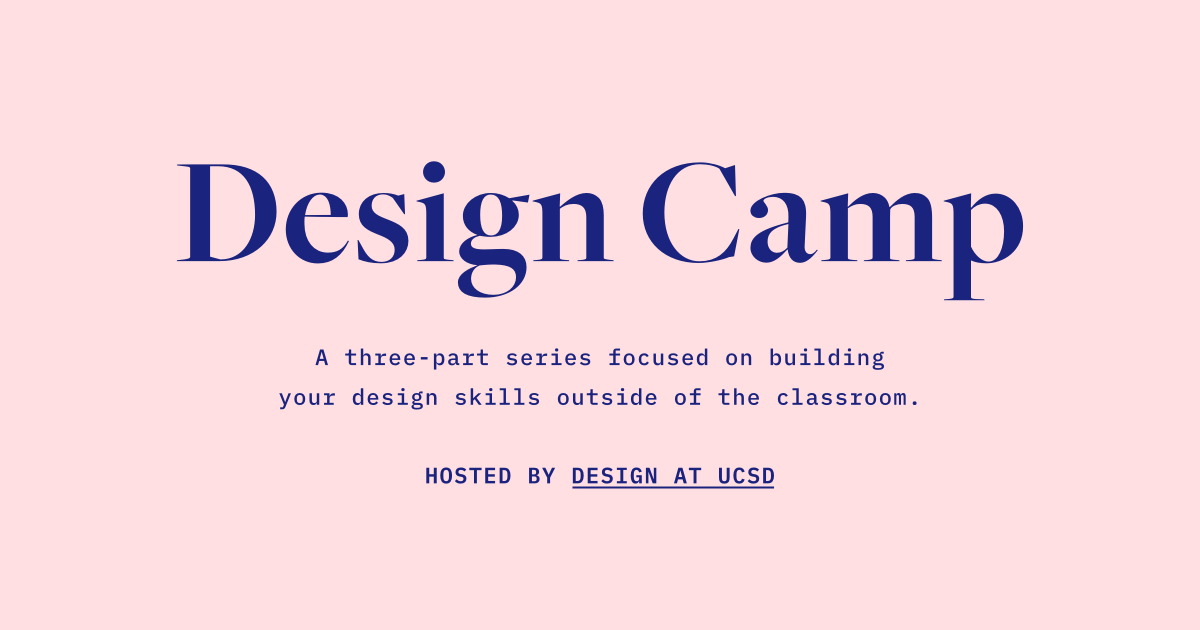
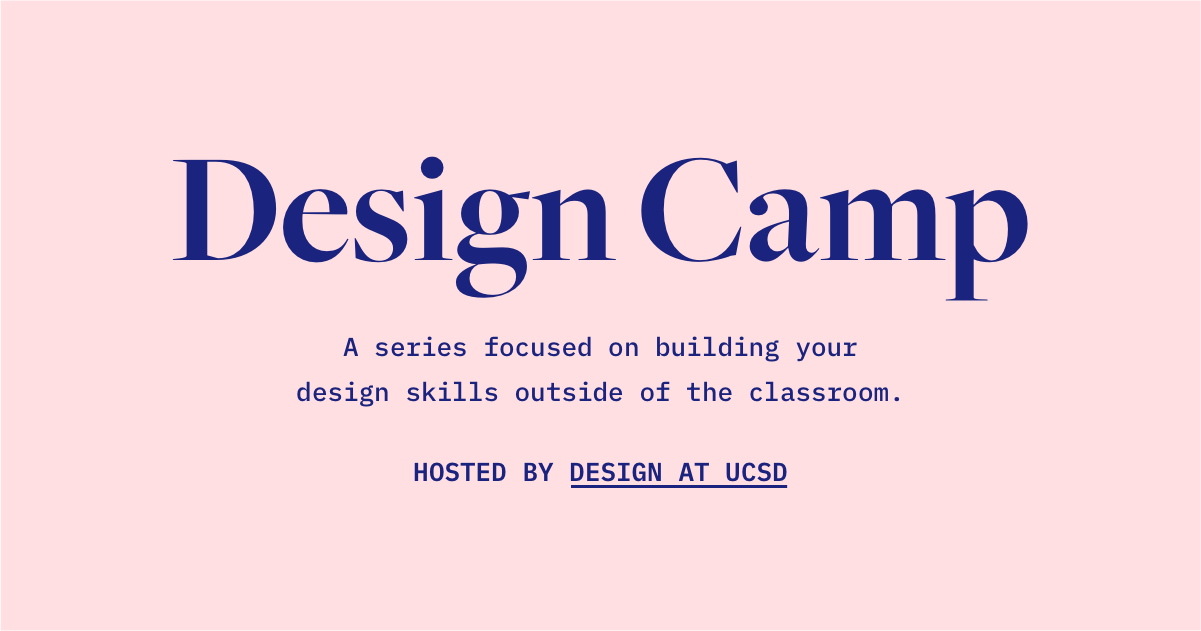
Update preview and description

diff --git a/index.html b/index.html
@@ -6,7 +6,7 @@
   <meta charset="utf-8">
   <meta name="viewport" content="width=device-width, initial-scale=1, shrink-to-fit=no">
   <meta name="format-detection" content="telephone=no">
-  <meta name="description" content="A three-part series focused on building your design skills outside of the classroom." />
+  <meta name="description" content="A series focused on building your design skills outside of the classroom." />
   <meta name="keywords" content="design skills, portfolio, visual design">
 
   <!-- Facebook -->
@@ -14,7 +14,7 @@
   <meta property="og:type" content="website">
   <meta property="og:image" content="https://camp.designatucsd.org/assets/images/preview.png">
   <meta property="og:url" content="https://camp.designatucsd.org">
-  <meta property="og:description" content="A three-part series focused on building your design skills outside of the classroom.">
+  <meta property="og:description" content="A series focused on building your design skills outside of the classroom.">
 
   <!-- Google Analytics -->
   <script async src="https://www.googletagmanager.com/gtag/js?id=UA-84330975-4"></script>
@@ -49,7 +49,7 @@
     <header>
       <div class="container">
         <h1>Design Camp</h1>
-        <p>A three-part series focused on building <br>your design skills outside of the classroom.</p>
+        <p>A series focused on building your<br> design skills outside of the classroom.</p>
         <p><b>Hosted by <a href="https://designatucsd.org/" target="_blank">Design at UCSD</a></b></p>
         <a href="https://goo.gl/forms/J56K6v8ROff1dJ7G2" target="_blank"><button>Sign-Up</button></a>
         <div class="down-arrow"><img src="/assets/images/down-arrow.svg" alt="Scroll down"></div>
